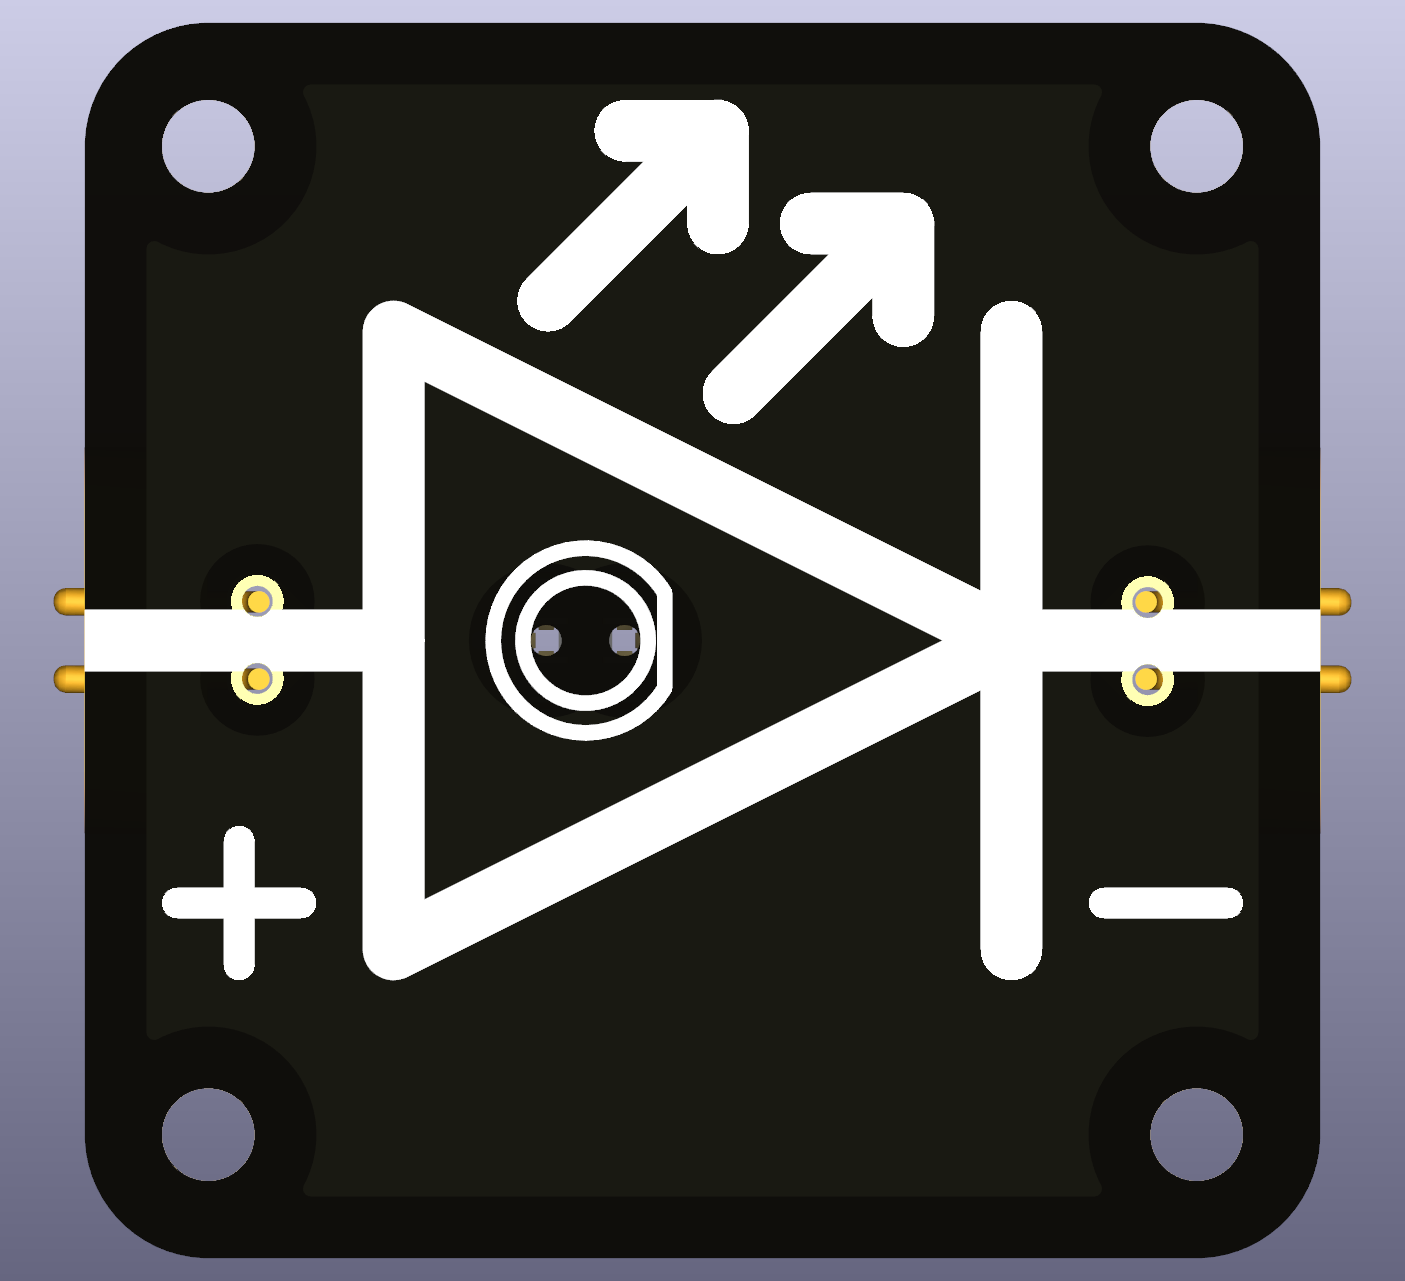
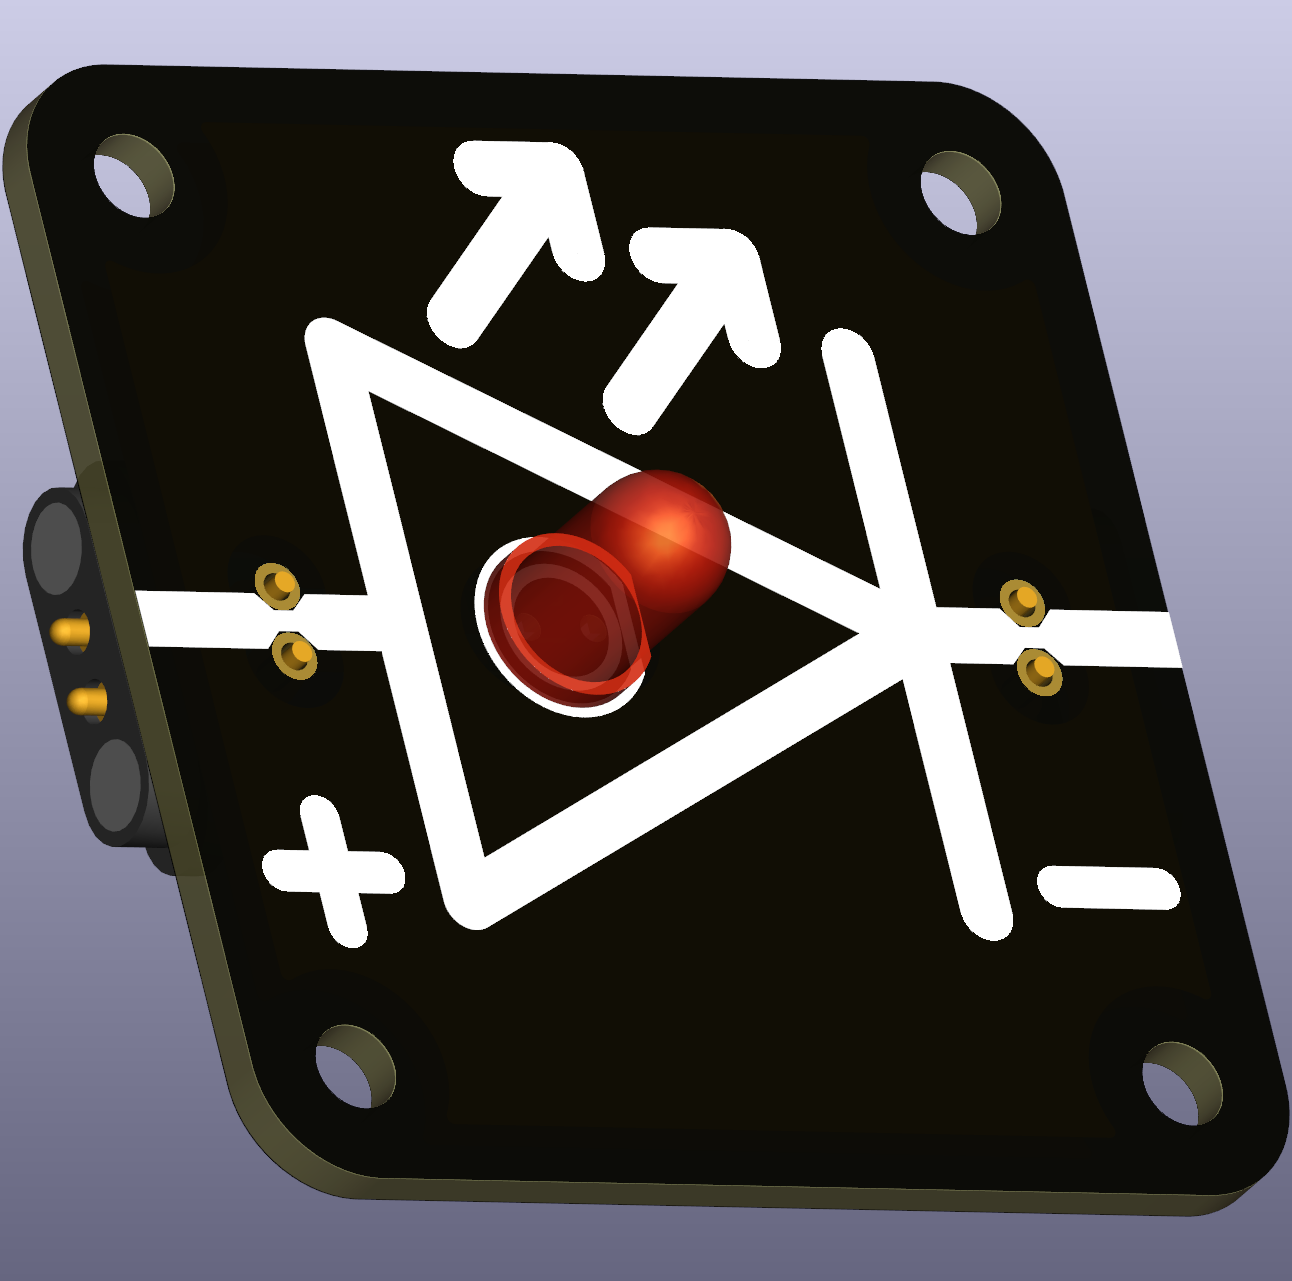
Update LED SMT holder documentation and assets
Revised README to clarify SMT header usage and compatibility with 5mm and 10mm LEDs. Updated ZIP and PNG files to reflect latest design and documentation changes.

diff --git a/puzzle-pieces/component_LED_THT_replacable_SMT/README.MD b/puzzle-pieces/component_LED_THT_replacable_SMT/README.MD
@@ -3,7 +3,7 @@ An **LED (Light-Emitting Diode)** is a special type of diode that emits light wh
 
 <img src="component_LED_replacable_SMT_TOP.png" alt="Circuit Diagram" width="400"> <img src="component_LED_replacable_SMT_BOTTOM.png" alt="Circuit Diagram" width="400">
 
-**This replacable version uses SMT pass-through 2.54mm header.** Standard 5mm LEDs will match the pitch of the header and make contact with the header terminals on the other side. Note: the leads of THT LEDs are usually quite long, longer than the height of the Circuite Node. Therefore, it is recommended to shorten them beforehand and also keeping the notation of anode and cathode intact (one leg is shorter than the other). Legs of some LEDs
+**This replacable version uses SMT pass-through 2.54mm header as a make-shift holder for THT LEDs** Standard 5mm LEDs will match the pitch of the header, 2.5mm, and make contact with the header terminals on the other side. Large 10mm LEDs usually fit, too. Note: the leads of THT LEDs are usually quite long. Therefore, it is recommended to shorten them beforehand and also keeping the notation of anode and cathode intact (one leg is shorter than the other).
 
 LEDs only allow current to flow in **one direction** (from the **Anode (+)** to the **Cathode (-)**). They require **a resistor in series** to limit current and prevent damage.  
 
